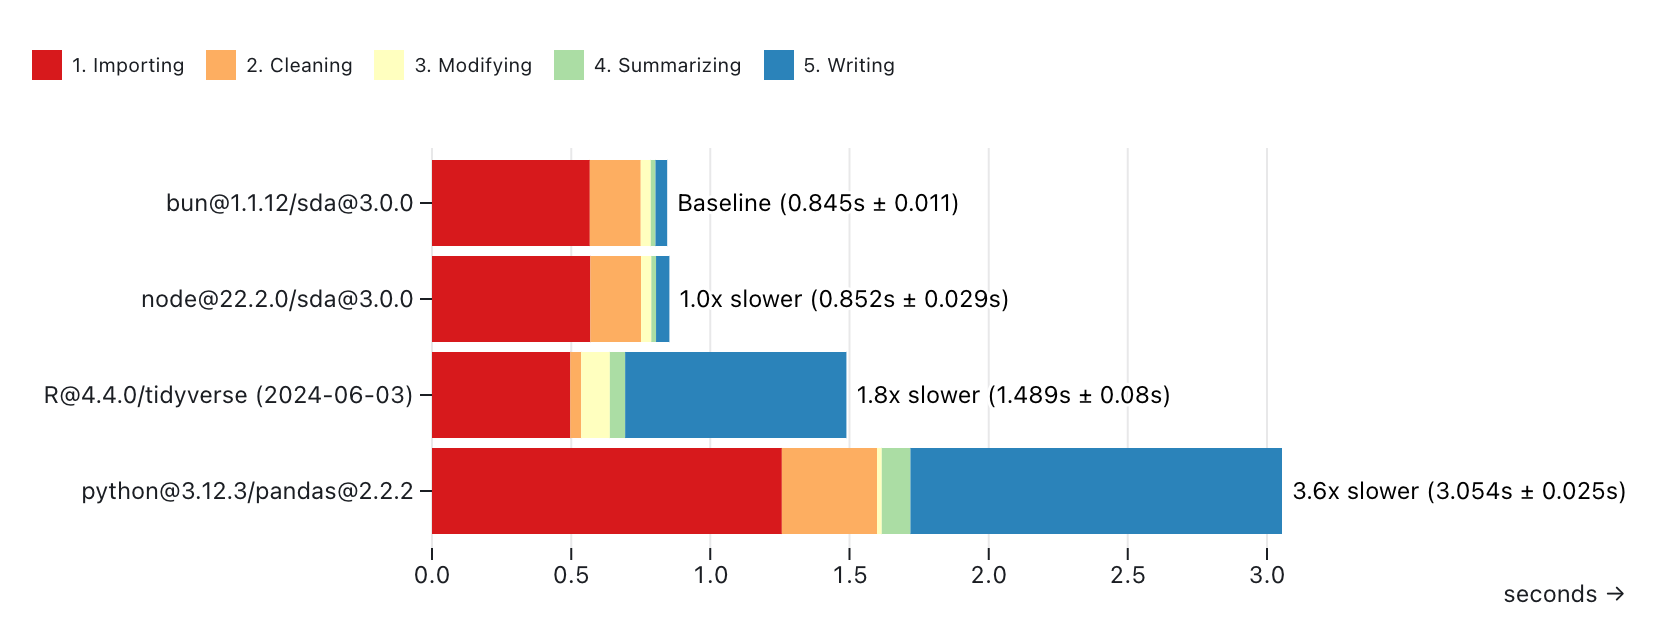
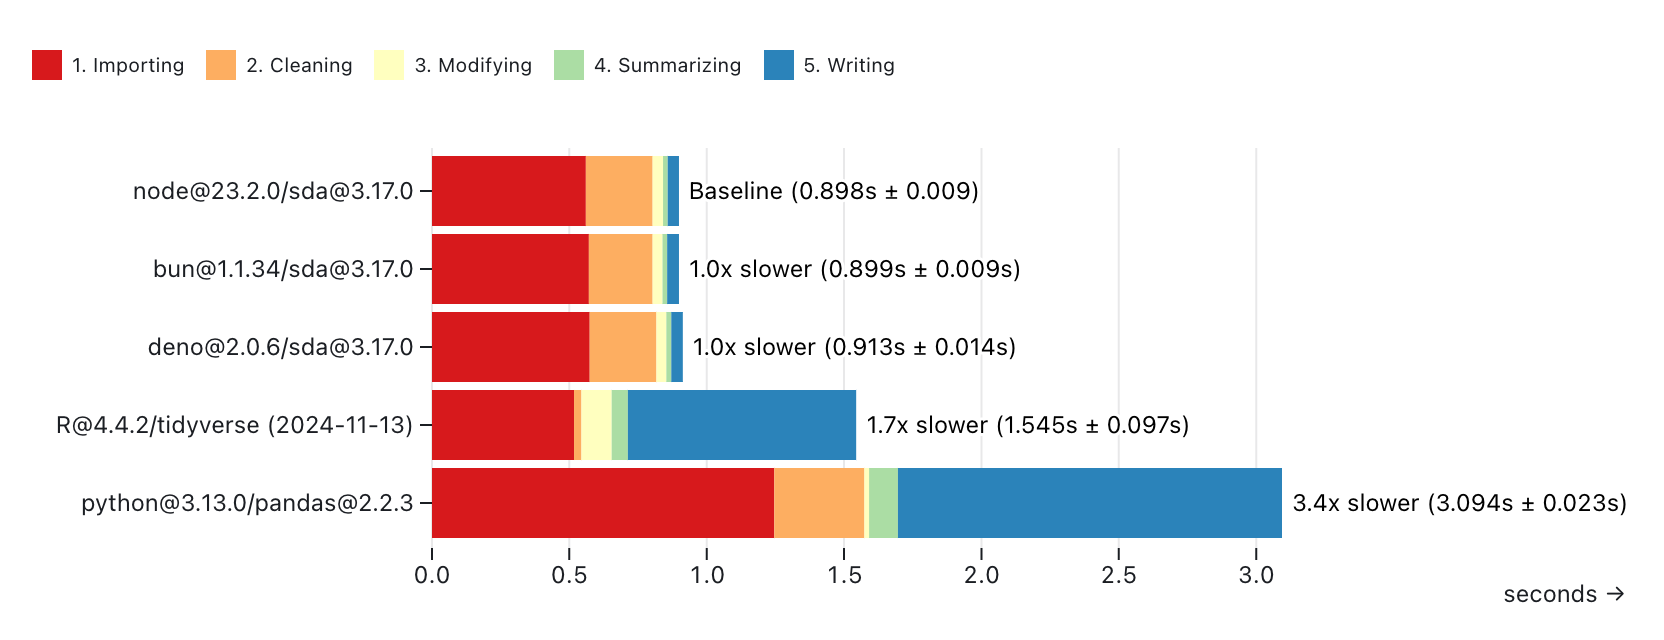
Adding Deno to performance tests

diff --git a/README.md b/README.md
@@ -110,8 +110,8 @@ temperature per decade and city with the daily temperatures from the
 See [this repository](https://github.com/nshiab/simple-data-analysis-benchmarks)
 for the code.
 
-We ran the same calculations with **simple-data-analysis@3.0.0** (both Node.js
-and Bun), **Pandas (Python)**, and the **tidyverse (R)**.
+We ran the same calculations with **simple-data-analysis** (Node.js, Bun, and
+Deno), **Pandas (Python)**, and the **tidyverse (R)**.
 
 In each script, we:
 
@@ -135,8 +135,8 @@ With _ahccd-samples.csv_:
 - 971,804 rows
 - 19,436,080 data points
 
-**simple-data-analysis@3.0.0** is the fastest, but if we skip writing the CSV
-file, the **tidyverse** shows impressive speed with small files.
+**simple-data-analysis** is the fastest, but if we skip writing the CSV file,
+the **tidyverse** shows impressive speed with small files.
 
 ![A chart showing the processing duration of multiple scripts in various languages](./assets/small-file.png)
 
@@ -150,8 +150,8 @@ With _ahccd.csv_:
 - 22,051,025 rows
 - 441,020,500 data points
 
-Thanks to DuckDB, **simple-data-analysis@3.0.0** really shines with big files.
-It's the fastest option.
+Thanks to DuckDB, **simple-data-analysis** really shines with big files. It's
+the fastest option.
 
 ![A chart showing the processing duration of multiple scripts in various languages](./assets/big-file.png)
 
